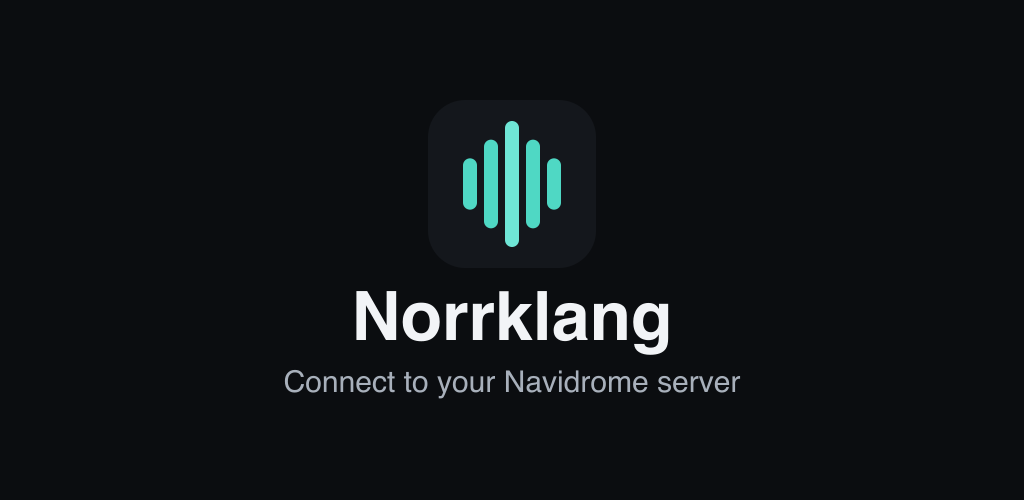
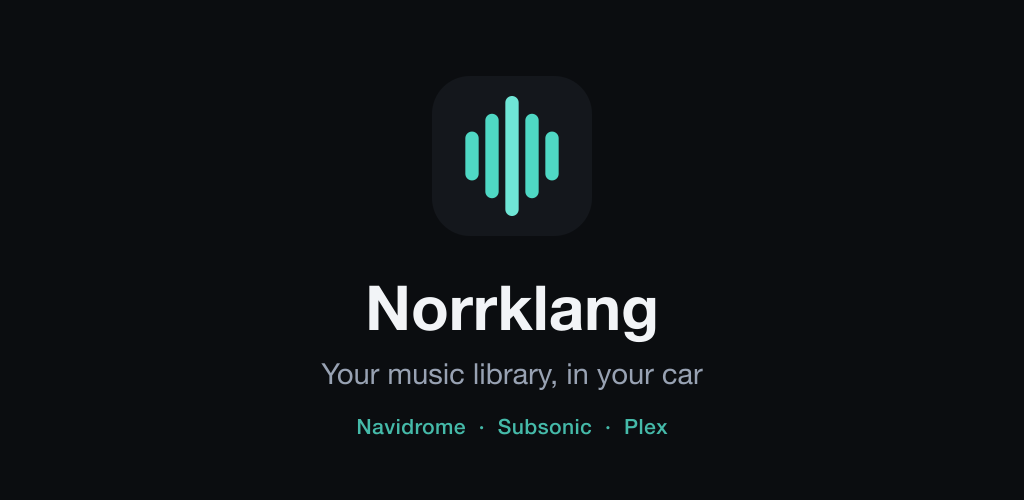
docs: changelog for release 1.1.0 and related files

Changed region(s): [[0.2812, 0.57, 0.7188, 0.81], [0.4375, 0.18, 0.5625, 0.48], [0.3438, 0.84, 0.6562, 0.87]]

diff --git a/README.md b/README.md
@@ -1,25 +1,28 @@
 # Norrklang
 
-A family of music clients for [Navidrome](https://www.navidrome.org/) — self-hosted music streaming.
+A family of music clients for self-hosted music — [Navidrome](https://www.navidrome.org/), other Subsonic-compatible servers, and [Plex](https://www.plex.tv/).
 
 The first project is a **car media app** for **Android Automotive OS** — it runs natively in cars like the Polestar 2.
 
 The repo also contains `app-mobile`, a phone APK that hosts **Android Auto** projection from the same Kotlin codebase. It builds, passes the same tests, and shares all the core modules — but it has not had the same real-world testing as the car app, so it is not yet published. The first Play release is Android Automotive OS only; Android Auto will follow once it has been proven out.
 
-**Status: 1.0.** The app is feature-complete for everyday in-car listening
+**Status: 1.1.** The app is feature-complete for everyday in-car listening
 and hardened for distribution (signed releases, encrypted credential storage,
 per-account caches), but it has seen a small number of servers and cars.
 Expect rough edges; please report them.
 
 - **Server requirements**: Navidrome (current stable releases) or any server
-  implementing **Subsonic API 1.16.1** with token authentication.
+  implementing **Subsonic API 1.16.1** with token authentication; or a
+  **Plex Media Server** with a music library, linked with a Plex account.
 - **HTTPS required**: release builds refuse cleartext HTTP — put your server
   behind TLS (a reverse proxy with Let's Encrypt is enough). Plain HTTP works
-  only in debug builds against local test servers.
+  only in debug builds against local test servers. Plex connections come with
+  Plex's own `plex.direct` TLS, so nothing extra to set up there.
 - **Known limitations**: no offline/downloaded playback; gapless playback
   only when streaming original files (the default setting) — server
-  transcoding reintroduces gaps; no multi-server profiles (one signed-in
-  server at a time); search results are capped at 50 per category.
+  transcoding reintroduces gaps; Plex playback is direct play only (no
+  transcoding fallback); no multi-server profiles (one signed-in provider
+  and server at a time); search results are capped at 50 per category.
 - **Install**: [Google Play](https://play.google.com/store/apps/details?id=studio.koeda.norrklang)
   (Android Automotive OS).
 - **Support**: [GitHub issues](https://github.com/koedastudio/norrklang/issues).
@@ -37,13 +40,14 @@ norrklang/
 │   ├── app-automotive/       # Android Automotive OS APK (Polestar 2 & friends)
 │   ├── app-mobile/           # Phone APK hosting Android Auto projection (not in the initial release)
 │   ├── core-subsonic/        # Pure-JVM Subsonic/OpenSubsonic API client (Ktor)
+│   ├── core-plex/            # Pure-JVM Plex client (plex.tv link + Plex Media Server)
 │   ├── core-data/            # Session, settings (DataStore), repositories
 │   ├── core-media/           # Media3 MediaLibraryService — browse tree + playback
 │   ├── core-ui/              # Shared Compose UI (sign-in, settings, theme)
 │   └── build-logic/          # Gradle convention plugins (SDK levels, signing, versioning)
 ├── www/                      # norrklang.app — Astro static site (landing + privacy policy)
-├── docs/                     # Test + release checklists (below)
-└── assets/                   # Brand sources: app icon + Play feature graphic (SVG masters and exports)
+├── docs/                     # Play store listing copy (below)
+└── assets/                   # Brand sources (app icon + Play feature graphic) and Play store screenshots
 ```
 
 The car never runs custom UI for browsing/playback — the OS renders the media
@@ -51,24 +55,29 @@ template from the browse tree that `core-media` serves. That's a platform
 requirement for driver safety, and it's also why the same `core-media` browse
 tree drives Android Auto head units unchanged when that form factor ships.
 
-`core-subsonic` is deliberately free of Android dependencies so it can become
-the shared kernel (KMP) for future phone/desktop clients in this monorepo.
+`core-subsonic` and `core-plex` are deliberately free of Android dependencies
+so they can become the shared kernel (KMP) for future phone/desktop clients in
+this monorepo.
 
 ## Features
 
-- Sign in to any Navidrome server (token auth; the password is never stored)
+- Sign in to a Navidrome/Subsonic server (token auth; the password is never
+  stored) or link a Plex account with a code or QR scan — no password typed
+  in the car
 - Browse: Home with Quick play, Made for you (Best of / Similar to), Genre and
-  Decade mixes; Artists, Albums, Playlists
+  Decade mixes, favourite artists and recently added tracks; Playlists;
+  Library with all artists, all albums and the recently/most played, new and
+  favourite album collections
 - Full playback via ExoPlayer: queue, shuffle, seek, audio focus, artwork
 - Favourites from the car UI: heart the playing track, heart albums while browsing
 - Voice/keyboard search across artists, albums and tracks
-- Scrobbling back to Navidrome, with on/off and per-artist/per-playlist exclusions
+- Play reporting back to the server (Navidrome scrobbles, Plex timelines),
+  with on/off and per-artist/per-playlist exclusions
 - Playback resumption after restarts; automatic recovery from network dropouts
 
 ## Guides
 
-- [Manual test checklist](docs/manual-test-checklist.md)
-- [Release checklist](docs/release-checklist.md)
+- [Play store listing copy](docs/play-store-listing.md)
 - [Privacy policy](https://norrklang.app/privacy) (source: `www/src/pages/privacy.md`)
 
 ## Quick start (build + unit tests)
@@ -99,6 +108,33 @@ keyPassword=…
 
 Debug builds and tests never touch it; without the file, release tasks fail
 with the same instructions.
+
+### Shipping an AAOS release to Google Play
+
+1. Bump `norrklang.version` in `android/gradle.properties` — new version name
+   and an increased build number (see §Versioning) — and update
+   `CHANGELOG.md`.
+2. Build the automotive bundle (signing configured as above):
+
+   ```bash
+   cd android && ./gradlew :app-automotive:bundleRelease
+   ```
+
+   The artifact lands in
+   `android/app-automotive/build/outputs/bundle/release/app-automotive-release.aab`.
+3. Verify the artifact and run the test passes: check the signature
+   (`jarsigner -verify`), the version code and declared features
+   (`bundletool dump manifest`), and exercise the app on the Automotive
+   emulator and a real car before promoting.
+4. If the release changes what the app does or supports, refresh the store
+   listing from [docs/play-store-listing.md](docs/play-store-listing.md)
+   (edit the doc first, then paste into the Play Console).
+5. Upload the `.aab` in the Play Console to a testing track and promote from
+   there. Two Play settings matter for cars: the release must be opted out of
+   **App integrity → automatic protection** (protected builds show Play's
+   "Something went wrong" dialog in cars that wake up offline), and the
+   bundle goes to the **Android Automotive OS** form factor of the single
+   `studio.koeda.norrklang` listing.
 
 ## Contributing
 

diff --git a/docs/play-store-listing.md b/docs/play-store-listing.md
@@ -1,0 +1,81 @@
+# Google Play store listing
+
+The canonical copy for the `studio.koeda.norrklang` listing (Android
+Automotive OS form factor). When the listing changes, edit it **here first**,
+then paste into Play Console → **Grow users → Store presence → Main store
+listing**. Keep this file and the live listing in sync.
+
+Play's limits: app name ≤ 30 characters, short description ≤ 80, full
+description ≤ 4000. All three are indexed for search, so Navidrome/Plex/
+Subsonic should stay spelled out.
+
+## App name
+
+```
+Norrklang - Navidrome & Plex
+```
+
+## Short description
+
+```
+Play your self-hosted Navidrome or Plex library, in your car.
+```
+
+## Full description
+
+```
+Norrklang is a music player for Navidrome and Plex, built for the screen in
+your car.
+
+You need your own server. Norrklang connects to a Navidrome server — or any
+server speaking Subsonic API 1.16.1 — or to a Plex Media Server with a music
+library. It is not a streaming service and ships with no music of its own.
+
+In the car
+• Browse your library: artists, albums, playlists and favourites
+• Home screen with Quick play, your favourite artists, recently added tracks
+and generated mixes — Best of, Similar to, genres and decades
+• Full playback: queue, shuffle, seek, cover art
+• Autoplay keeps the music going with similar songs when the queue runs out
+(can be turned off)
+• Add albums and songs as favourites while listening
+• Voice and keyboard search across artists, albums and tracks
+• Play counts reported to your own server, with per-artist and per-playlist
+exclusions — or turned off entirely
+• Picks up where you left off after the car restarts
+
+Navidrome and Subsonic
+• Sign in with your server address and account. The password is never stored
+— only a token, encrypted on the device
+• HTTPS required
+
+Plex
+• Link your Plex account with a short code or QR scan — no password typed in
+the car
+• Plays directly from your own Plex Media Server
+
+Private by design
+No ads, no analytics, no crash reporting, no third-party services. The app
+talks only to your server (plus plex.tv to link a Plex account). Credentials
+are encrypted and stay on the device. Diagnostics stay on the device too and
+are shared only if you choose to submit a problem report.
+
+Norrklang is open source (GPL-3.0-or-later):
+https://github.com/koedastudio/norrklang
+Privacy policy: https://norrklang.app/privacy
+```
+
+## Release notes ("What's new", ≤ 500 characters)
+
+For the 1.1.0 release:
+
+```
+• Plex support — link your Plex account and play from your own Plex Media Server
+• New Library tab gathering artists, albums and your collections
+• Favourite artists, recently added tracks, genre and decade mixes on Home
+• Autoplay keeps playing similar songs when the queue runs out
+• Search results grouped by artists, albums and tracks
+• Faster artwork loading
+• On-device diagnostics with QR problem reports — nothing leaves the car
+• Fixed a crash loop on Android 12 cars
+```

diff --git a/CHANGELOG.md b/CHANGELOG.md
@@ -5,6 +5,39 @@ Format follows [Keep a Changelog](https://keepachangelog.com/en/1.1.0/);
 versions follow semver (`norrklang.version` in `android/gradle.properties`
 is the single source of truth).
 
+## [1.1.0] — 2026-08-23
+
+### Added
+
+- Plex Media Server support: link a Plex account with a code or QR scan,
+  direct-play streaming, favourites and play reporting.
+- **Library** tab gathering artists, albums and the album collections;
+  large lists split into alphabetical buckets.
+- Decade and genre mixes, favourite artists and recently added tracks
+  on the home tab.
+- Autoplay: similar songs are appended when the queue runs out
+  (on by default, toggle in Settings).
+- Sectioned search results (artists / albums / tracks).
+- Diagnostics screen with an on-device error log and QR problem reports.
+
+### Changed
+
+- Faster artwork loading (concurrent downloads).
+- Tile artwork redesigned: collage covers show uncovered; icon-only tiles
+  use a flat accent colour with an off-center faded icon motif.
+- "Made for you" no longer repeats an artist across Best of and Similar to.
+- Homepage and privacy policy updated for Plex and diagnostics.
+
+### Fixed
+
+- Crash loop on Android 12 cars (Polestar 4, Chevrolet Blazer EV):
+  stream/artwork URLs were built with an Android 13+-only API.
+
+### Security
+
+- Diagnostic and crash logs strip server addresses and URL query strings,
+  so auth tokens never appear on the diagnostics screen or in reports.
+
 ## [1.0.0] — 2026-08-06
 
 Initial public release, on

diff --git a/CONTRIBUTING.md b/CONTRIBUTING.md
@@ -32,9 +32,9 @@ Website: `cd www && npm ci && npm run check && npm run build`.
   are deliberately unit-testable on the JVM).
 - Match the surrounding style; `.editorconfig` is authoritative.
 - No new dependencies without discussing them in the issue first.
-- For changes visible in the car UI, run the relevant items of the
-  [manual test checklist](docs/manual-test-checklist.md) and say which ones
-  in the PR description.
+- For changes visible in the car UI, exercise the affected flows on the
+  Automotive emulator (or a real car) and say what you tested in the PR
+  description.
 
 By contributing you agree that your work is licensed under the project
 license, [GPL-3.0-or-later](LICENSE).

diff --git a/.github/PULL_REQUEST_TEMPLATE.md b/.github/PULL_REQUEST_TEMPLATE.md
@@ -10,8 +10,7 @@
 - [ ] `./gradlew test` passes
 - [ ] New behaviour has tests
 - [ ] No new dependencies (or they were agreed on in the issue)
-- [ ] Car UI changes: ran the relevant items of the
-      [manual test checklist](../docs/manual-test-checklist.md) — listed below
+- [ ] Car UI changes: exercised the affected flows manually — listed below
 
-<!-- If you ran manual checklist items, say which ones and on what
+<!-- If you tested manually, say what you tested and on what
      (car model or emulator image). -->
